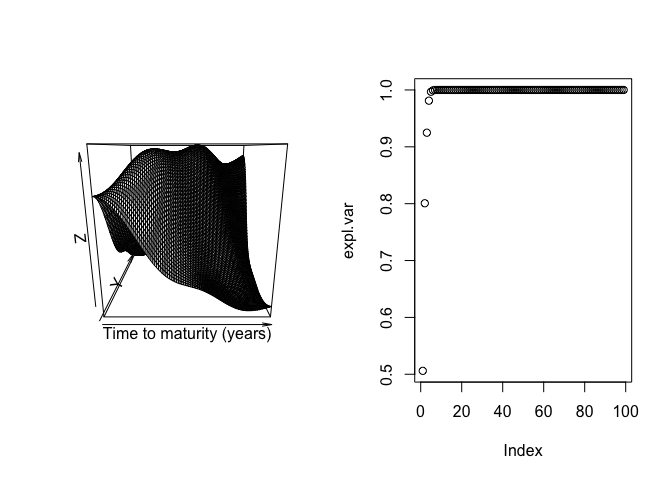
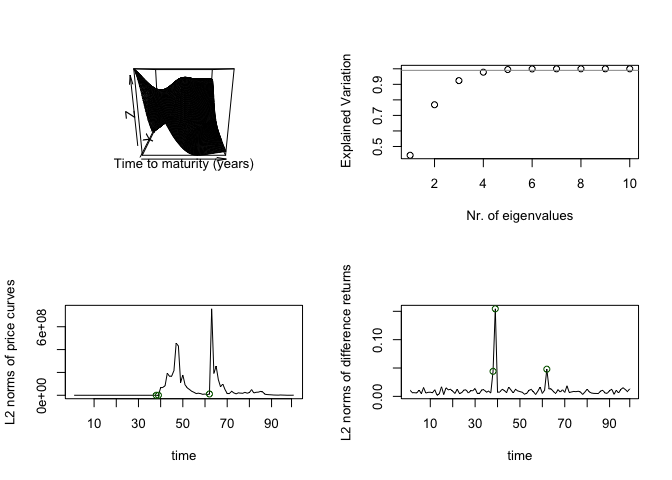
Rmd chngs

diff --git a/README.md b/README.md
@@ -99,13 +99,14 @@ such that $\|c\|_{L^2([0,1]^2)}=1$.
 which can be plotted:
 
 ``` r
-k<-Exponential.cov(100,100)
+k<-10*Exponential.cov(100,100)
 persp(z=k[1:100,1:200],xlab= "Time to maturity (years)")
 ```
 
 <img src="man/figures/README-unnamed-chunk-2-1.png" width="100%" />
 
 ``` r
+set.seed(123)
 SIM<-Simulator(100,100, q= q, k=k, f0=numeric(201))
 ```
 
@@ -117,15 +118,45 @@ Est<-Truncated.Covariation.estimator(x=SIM$Prices)
 
 <img src="man/figures/README-unnamed-chunk-4-1.png" width="100%" />
 
-``` r
-persp(Est$IV,xlab= "Time to maturity (years)")
-```
-
-<img src="man/figures/README-unnamed-chunk-4-2.png" width="100%" />
-
 The relative MSE in Hilbert-Schmidt norm is
 
 ``` r
 L2.HS.norm(Est$IV-q[1:99,1:99]/100)/L2.HS.norm(q[1:99,1:99]/100)
-#> [1] 0.1229131
+#> [1] 0.2028612
+```
+
+The measured number of factors to explain 99% of the variation in the
+data is
+
+``` r
+which.max(Est$expl.var >.99)
+#> [1] 5
+```
+
+which is the correct number of factors needed to explain 99% of the
+variation:
+
+``` r
+loads<-numeric(ncol(q[1:99,1:99]))
+    EG<-eigen(q[1:99,1:99])
+    for (i in 1:ncol(q[1:99,1:99])) {
+      loads[i]<-sum(EG$values[1:i])
+    }
+    expl.var<-loads/sum(EG$values)
+which.max(expl.var >.99)
+#> [1] 5
+```
+
+The detected jump locations are
+
+``` r
+Est$locs
+#> [1] 39 40 63
+```
+
+while the correct jump locations are
+
+``` r
+SIM$jump.locs
+#> [1] 39 40 63
 ```
